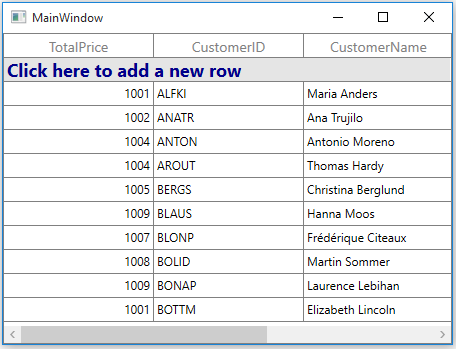
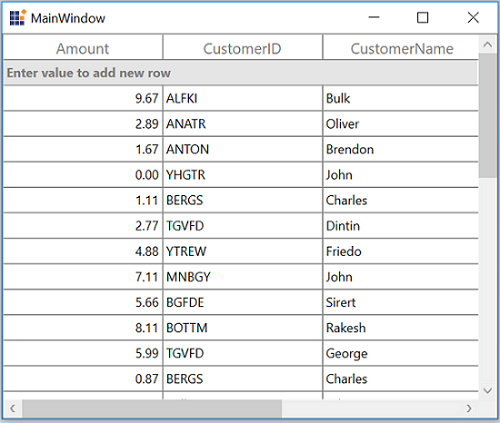
AddNewRow image and style changed.

diff --git a/wpf/SfDataGrid/Styles-and-Templates.md b/wpf/SfDataGrid/Styles-and-Templates.md
@@ -551,9 +551,9 @@ The appearance of AddNewRow can customized by writing style of TargetType [AddNe
 {% tabs %}
 {% highlight xaml %}
 <Window.Resources>
-    <Style TargetType="syncfusion:AddNewRowControl">
-        <Setter Property="Foreground" Value="DarkBlue"/>
-        <Setter Property="FontWeight" Value="Bold"/>
+    <Style  TargetType="Syncfusion:AddNewRowControl">
+        <Setter Property="AddNewRowText" Value="Enter value to add new row"/>
+        <Setter Property="FontWeight" Value="Bold"/>        
     </Style>
 </Window.Resources>
 
